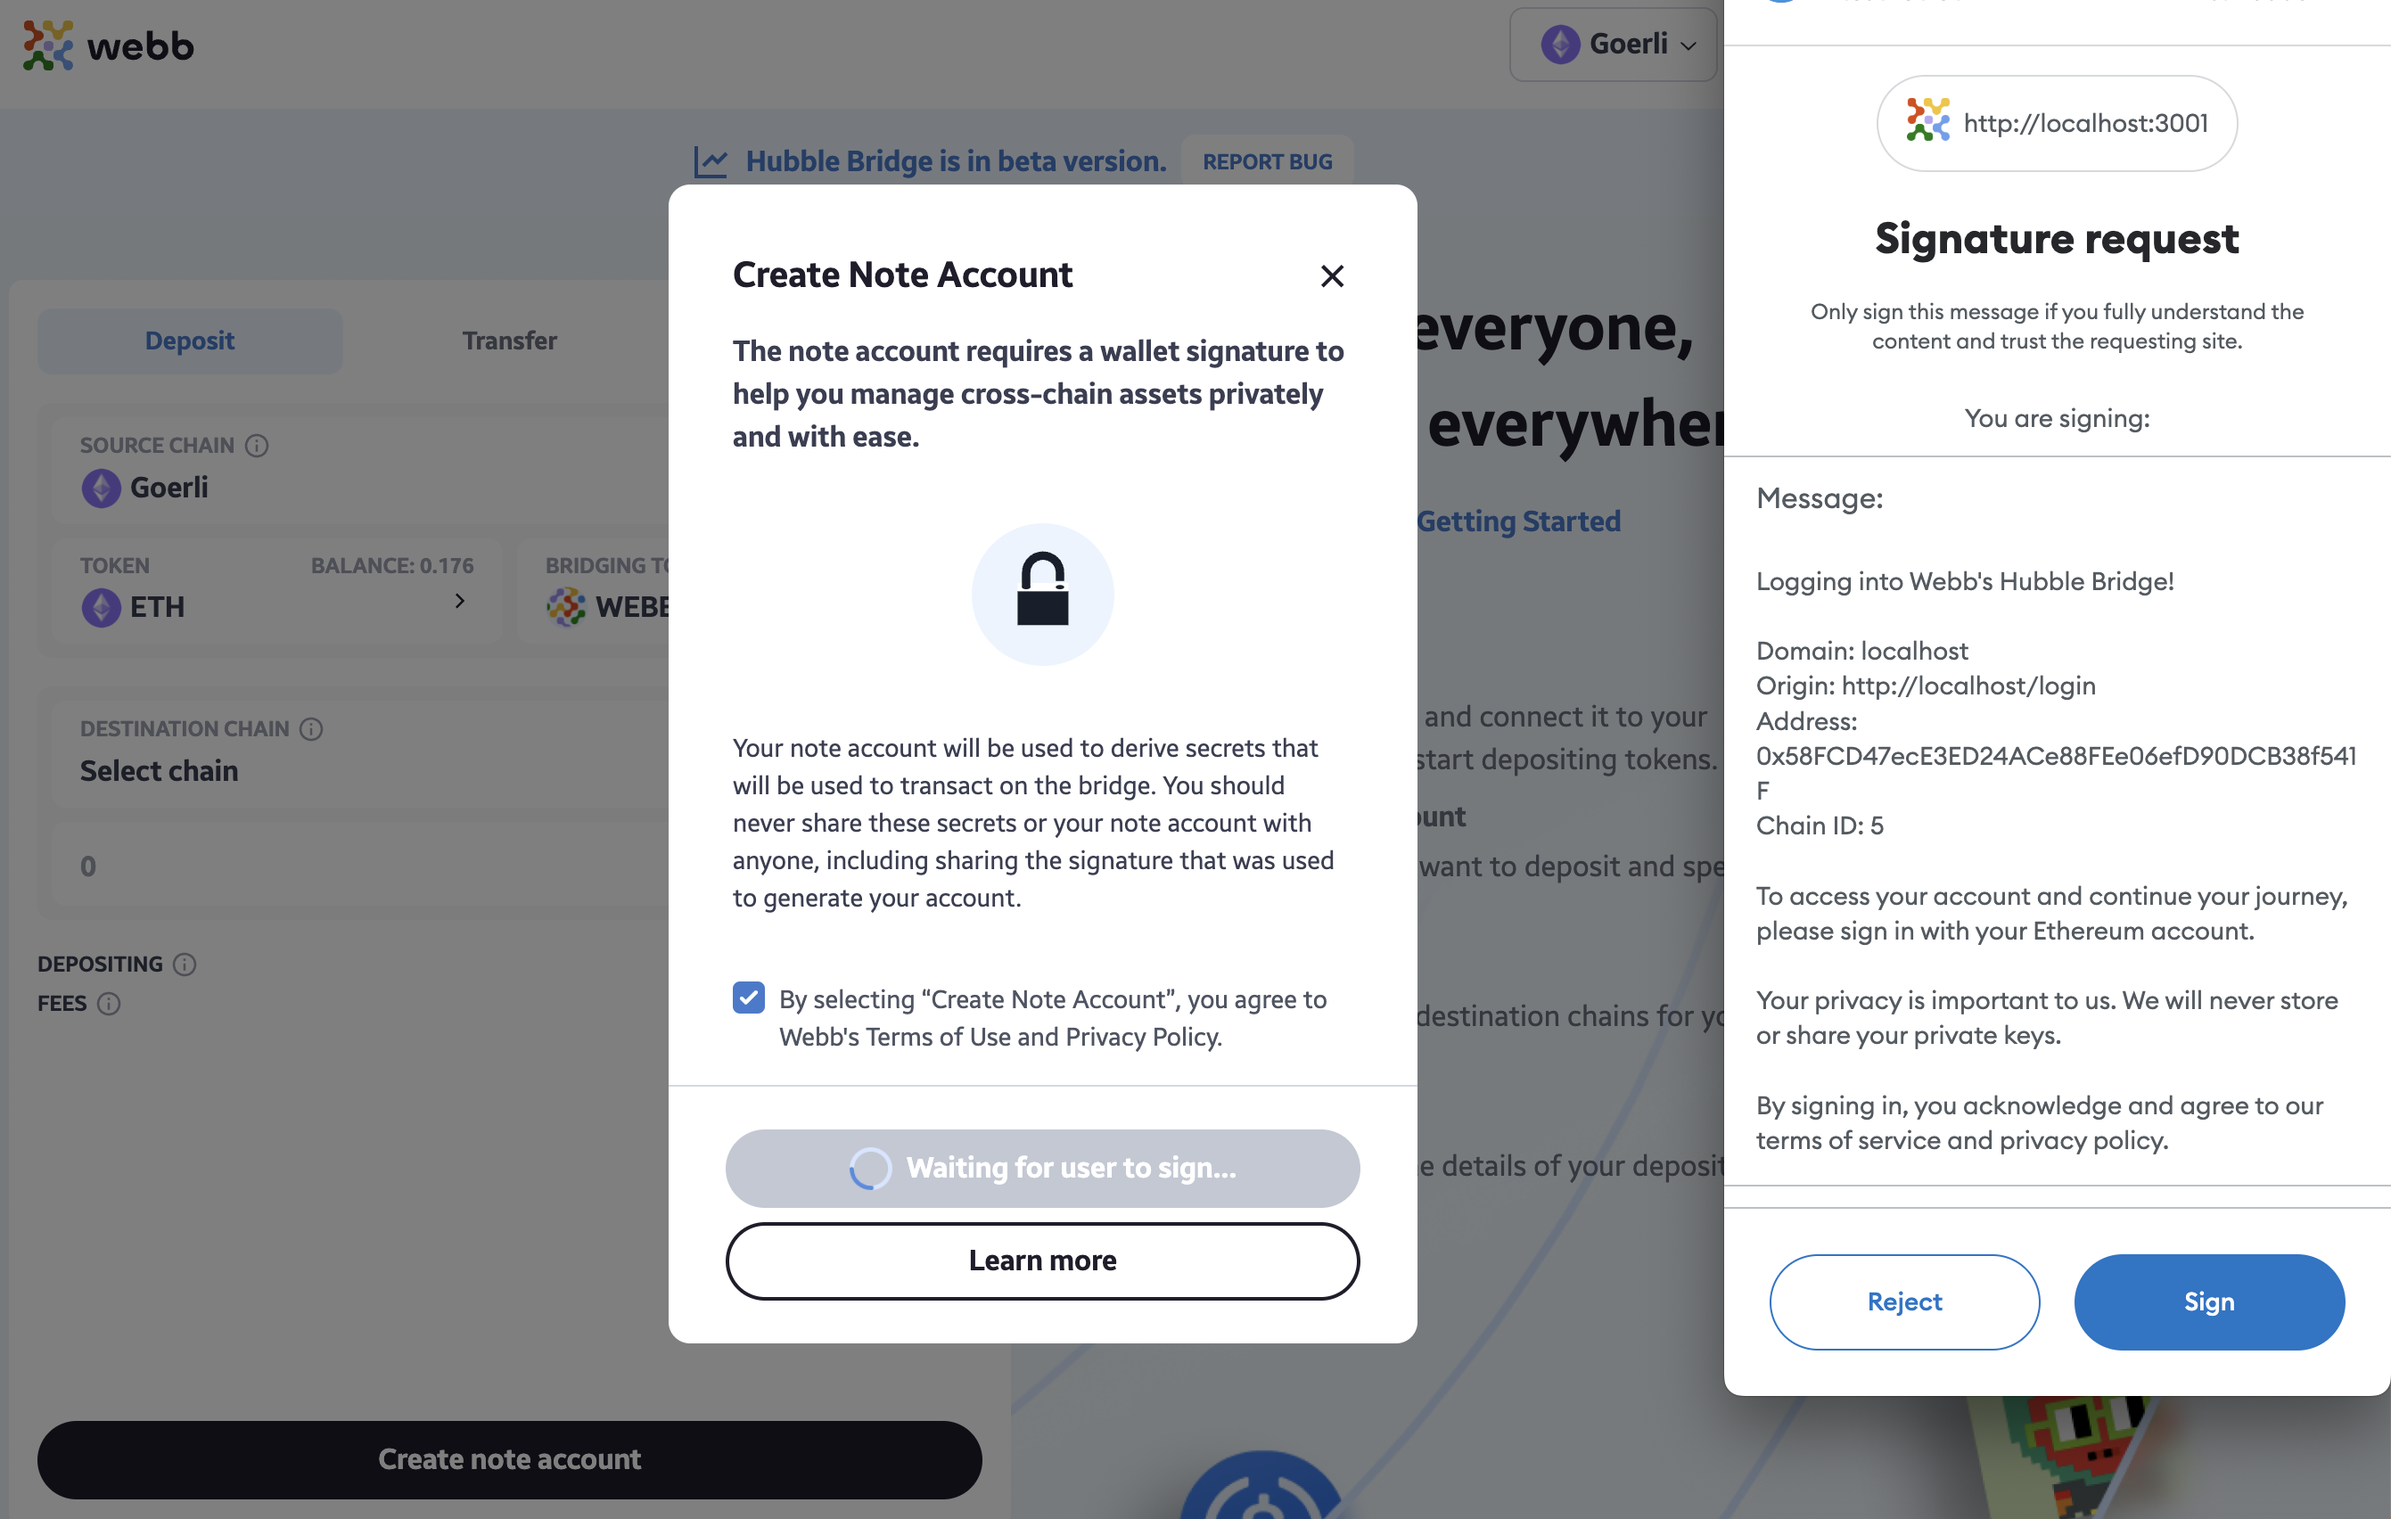
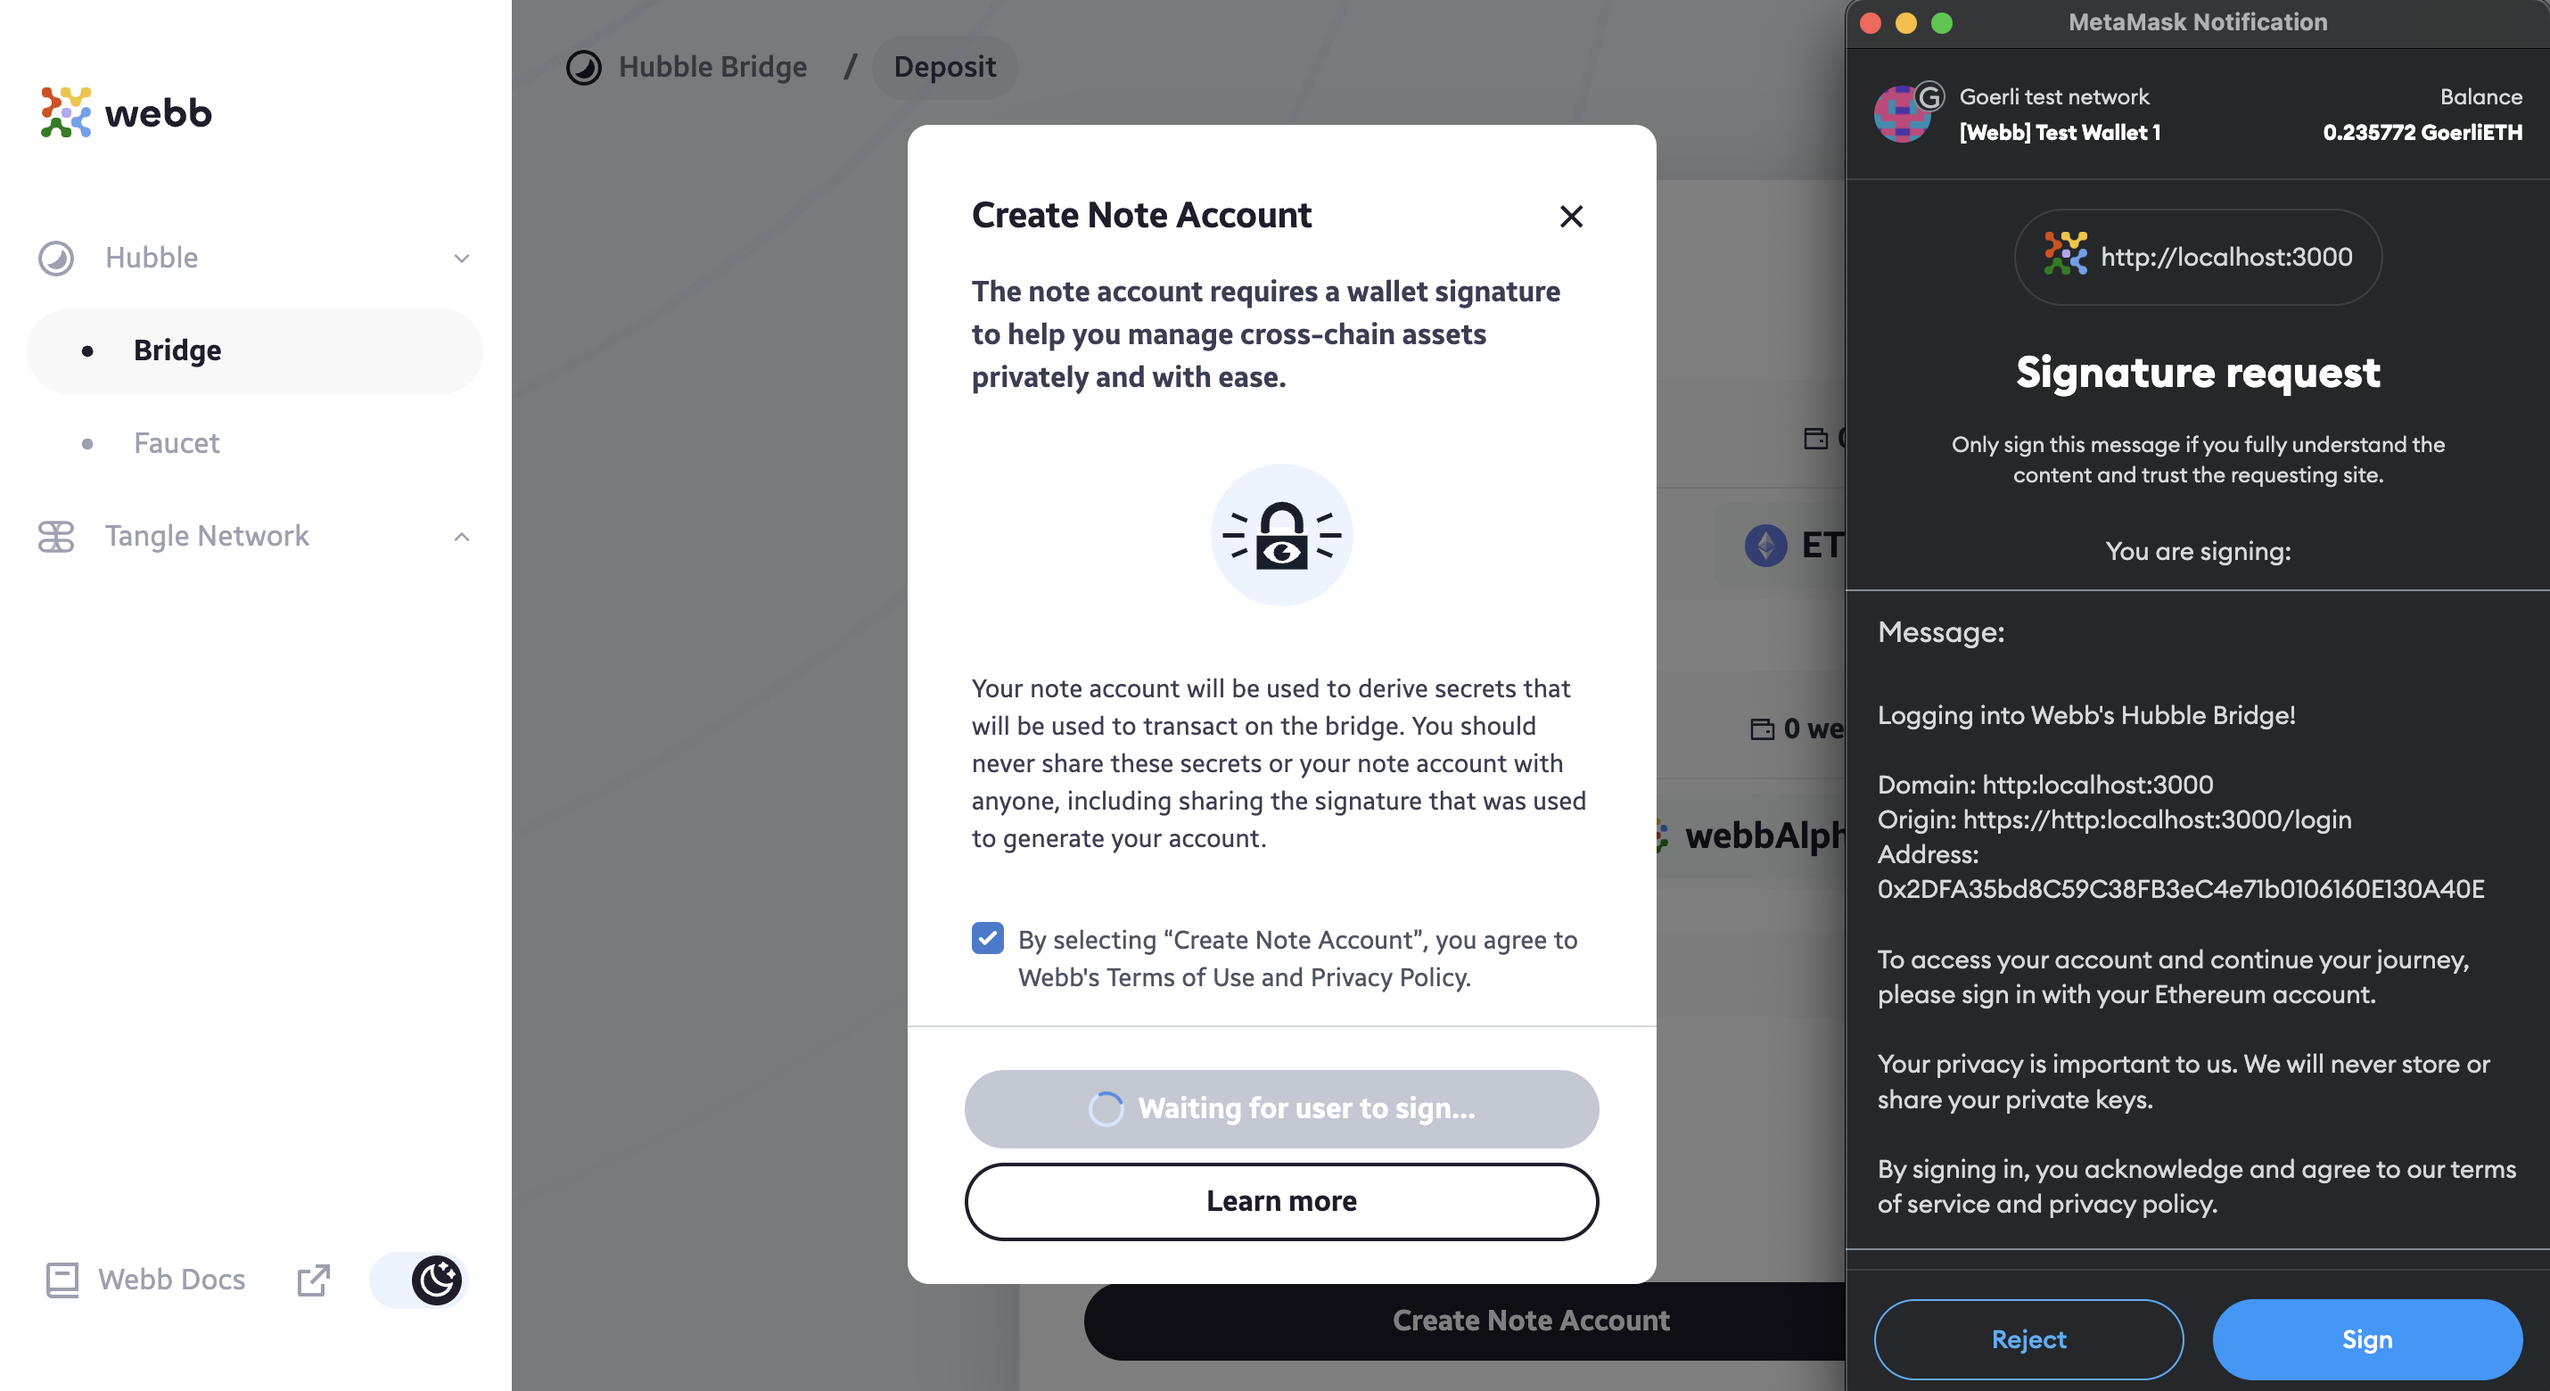
doc: update new images for account usage guide

diff --git a/components/images/bridge/usage-guide/account/Account.tsx b/components/images/bridge/usage-guide/account/Account.tsx
@@ -8,7 +8,7 @@ import SourceChainDark from "./select-source-chain-dark.png";
 import WalletComponentLight from "./wallet-component-light.png";
 import WalletComponentDark from "./wallet-component-dark.png";
 import CreateAccountLight from "./create-note-account-light.png";
-import CreateAccountDark from "./create-note-account-dark2.png";
+import CreateAccountDark from "./create-note-account-dark.png";
 import CreateAccountPromptLight from "./create-account-prompt-light.png";
 import CreateAccountPromptDark from "./create-account-prompt-dark.png";
 import SignatureRequestLight from "./signature-request-light.png";
